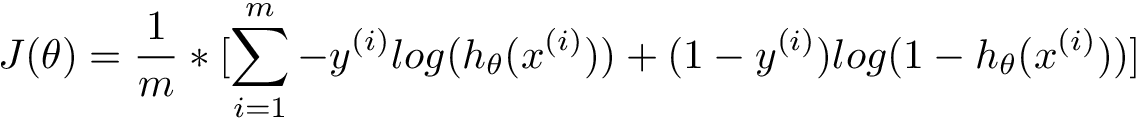
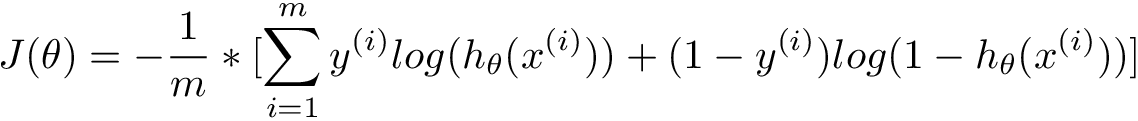
adding ex05, WIP

Changed region(s): [[0.123, 0.0992, 0.3076, 0.7934], [0.1845, 0.7934, 0.2768, 0.9669], [0.2153, 0.0248, 0.2768, 0.1488]]

diff --git a/day02/ex05/ex05.md b/day02/ex05/ex05.md
@@ -1,0 +1,74 @@
+ ### Exercise 05 - Logistic Regression
+
+|                         |                         |
+| -----------------------:| ----------------------- |
+|   Turnin directory :    |  ex00                   |
+|   Files to turn in :    |  log_reg.py             |
+|   Forbidden function :  |  None                   |
+|   Remarks :             |  n/a                    |
+
+Now it's time to use everything you built so far to implement a logistic regression classifier using gradient descent algorithm.
+
+You must have seen the power of numpy for vectorized operations. Well let's make something more concrete with that.
+
+The most curious of you must have noticed that scikit-learn implementation offers a lot of options.
+Here we will make a simplified but nonetheless usefull and powerfull version with fewer options.
+
+Implement the class LogisticRegressionBatchGd:
+
+Parameters of the class to initialize:
+  - alpha: float, learning rate value
+  - penalty: str, ‘l2’ or ‘none’, optional (default=’none’)
+  - max_iter: int, optional (default=1000)
+  - verbose: bool, optional (default=False)
+  - learning_rate: str, 'constant' or 'invscaling', optional (default='constant')
+
+Methods to implement inside the class:
+```python
+def fit(self, x_train, y_true):
+```
+In this method you will perform the gradient descent algorithm and save your weights.<br>
+x_train: train samples<br>
+y_true: true labels for x_train<br>
+returns: A DEFINIR (object ?)
+
+```python
+def predict(self, x_train):
+```
+x_train: train samples<br>
+returns: y_pred, the predicted class label per sample<br>
+
+
+```python
+def score(self, x_train, y_true):
+```
+x_train: train samples<br>
+y_true: true labels for x_train<br>
+returns: mean accuracy of self.predict(X) with respect to y_true<br>
+
+--------
+You will need a "__init__" method to initialize the parameters 
+used in others methods (i.e.: alpha, max_iter ...).
+    
+It would be a good idea to use the functions you created so far in the mathematical part.
+A good way to do that is to put them in your class as private methods.
+
+Create a test.py file with the following code to test your implementation:
+```python
+import pandas as pd
+from log_reg import LogisticRegressionBatchGd
+
+# We assume our data to be correct (non missing values etc...) and normalized.
+# Otherwise you would have to do some data wrangling to get x_train and y_train.
+# We also assume we have another dataset to test our model so we don't need to split
+# our data into x_train, x_test, y_train, y_test.
+df_train = pd.read_csv('dataset_train.csv', index_col="Index")
+logreg = LogisticRegressionBatchGd(alpha=0.01, penalty='none', max_iter=1000, 
+                                   verbose=False, learning_rate='constant')
+x_train, y_train = df_train.loc[:, df_train.columns != 'y_true'], df_train['y_true']
+logreg.fit(x_train, y_train)
+print(logreg.predict(x_train)) # this is your y_pred
+print(logreg.score)
+# You can compare your score with the one of scikit-learn.<br>
+# Both should match or be really close.
+```

diff --git a/day02/ex04/ex04.md b/day02/ex04/ex04.md
@@ -9,18 +9,20 @@
 
 You must implement the following formula as a function:  
  
- ![image info](assets/vec_log_grad.png)
- 
+ <img src="../assets/vec_log_grad.png" width=300 height=100>
+
+ $$
 {\displaystyle {\overrightarrow {\nabla }}} = \sum_{i = 1}^{m} (h_\theta (x^{(i)}) - y^{(i)}) \cdot x^{(i)} 
+ $$
  
  Where:
- {\displaystyle {\overrightarrow {\nabla }}} is the gradient
+ ${\displaystyle {\overrightarrow {\nabla }}}$ is the gradient
 - x represent the input coefficients
 - m is the lenght of y, i.e. the number of observations in our sample
 - hθ(x) , also called y_hat or y_pred, is the calculated hypothesis and it represents the predicted output
 - y, also called y_true, represents the desired output, either 1 or 0.
 
-We will the gradient later to update our weights (θ) with respect to the learning rate (α).
+We will use the gradient later to update our weights (θ) with respect to the learning rate (α).
 
 Create a function called `vec_log_grad` which takes three arguments:
   - x : a vector or a matrix

diff --git a/day02/ex03/ex03.md b/day02/ex03/ex03.md
@@ -9,9 +9,11 @@
 
 You must implement the following formula as a function:  
   
-![image info](assets/log_loss_vec.png)
+<img src="../assets/log_loss_vec.png" width=300 height=100>
 
-J( \theta) = \frac{1} {m} * \lbrack \sum_{i = 1}^{m} -y^{(i)}log(h_{ \theta }(x^{(i)})) + (1 - y^{(i)})log(1 - h_{ \theta }(x^{(i)}))\rbrack
+$$
+J( \theta) = -\frac{1} {m} * \lbrack \sum_{i = 1}^{m} y^{(i)}log(h_{ \theta }(x^{(i)})) + (1 - y^{(i)})log(1 - h_{ \theta }(x^{(i)}))\rbrack
+$$
 
 Where:  
 - J(θ) is the cost function with theta being the weights
@@ -27,9 +29,11 @@ of the Cross entropy Wikipedia.
 
 Formula for hypothesis:
 
-![image info](assets/y_hat.png)
-    
+<img src="../assets/y_hat.png" width=300 height=100>
+
+$$
 \hat{y} = h_{ \theta }(x) = \frac{1} {1 + e^{-\theta \cdot x}}
+$$
 
 As you may have noticed, this is our sigmoid function with θ·x as argument.
 

diff --git a/day02/ex00/ex00.md b/day02/ex00/ex00.md
@@ -8,10 +8,12 @@
 |   Remarks :             |  Numpy is your friend ! |
 
 You must implement the following formula as a function:  
-  
-![image info](assets/sigmoid.png)
 
+<img src="../assets/sigmoid.png" width=300 height=100>
+
+$$
 f(x) = \frac{1} {1 + e^{-x}}
+$$
 
 Where:  
 - x is a scalar value or a vector
@@ -20,10 +22,11 @@ Where:
 This function is called the sigmoid function also known as standard logistic sigmoid function.<br/>
 It is a special case of the logistic function below, with L=1, k=1 and x_0=0:
 
-![image info](assets/logistic.png)
+<img src="../assets/logistic.png" width=300 height=100>
 
+$$
 f(x) = \frac{L}{1 + e^{-k(x-x_0)}}
-
+$$
 
 Create a function called `sigmoid_` which takes one argument: 
   - a scalar value or a vector 
